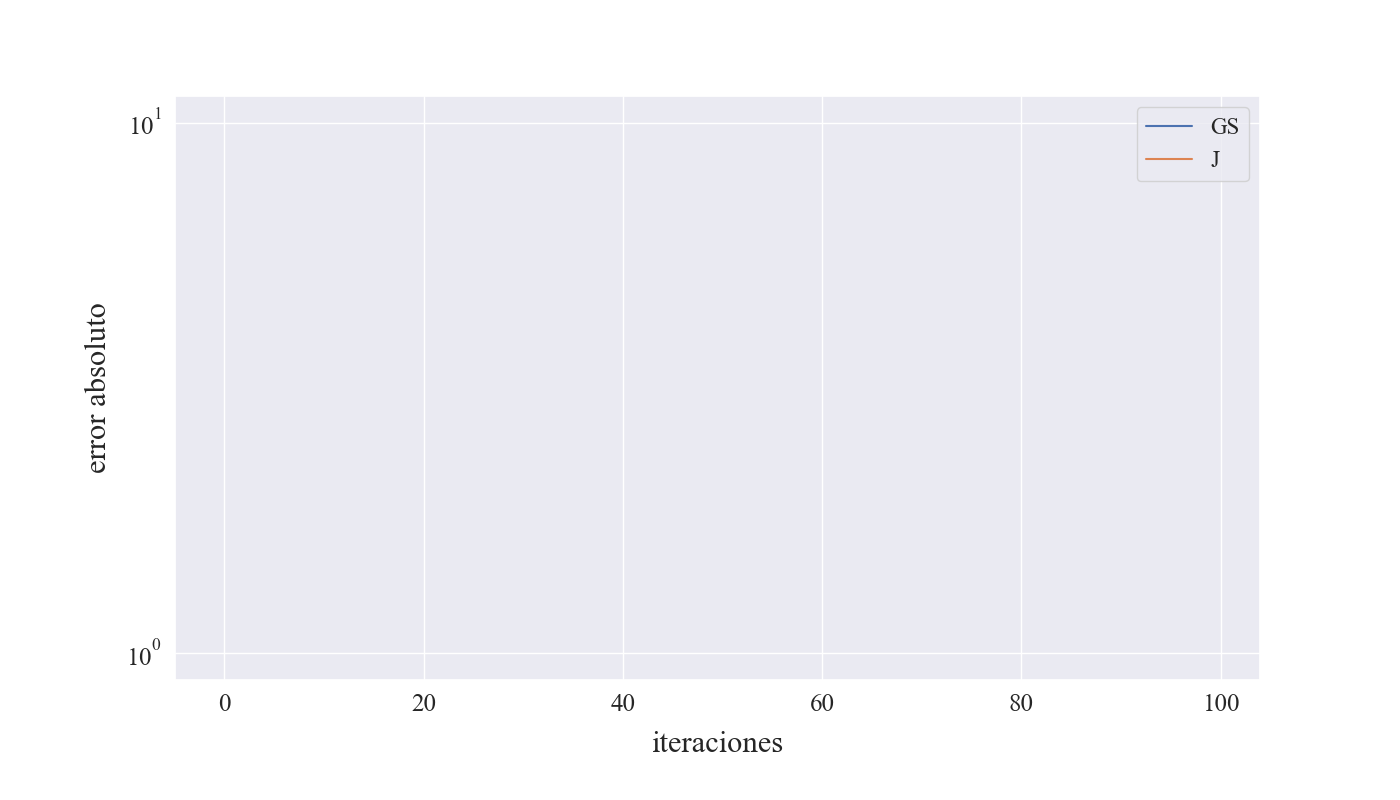
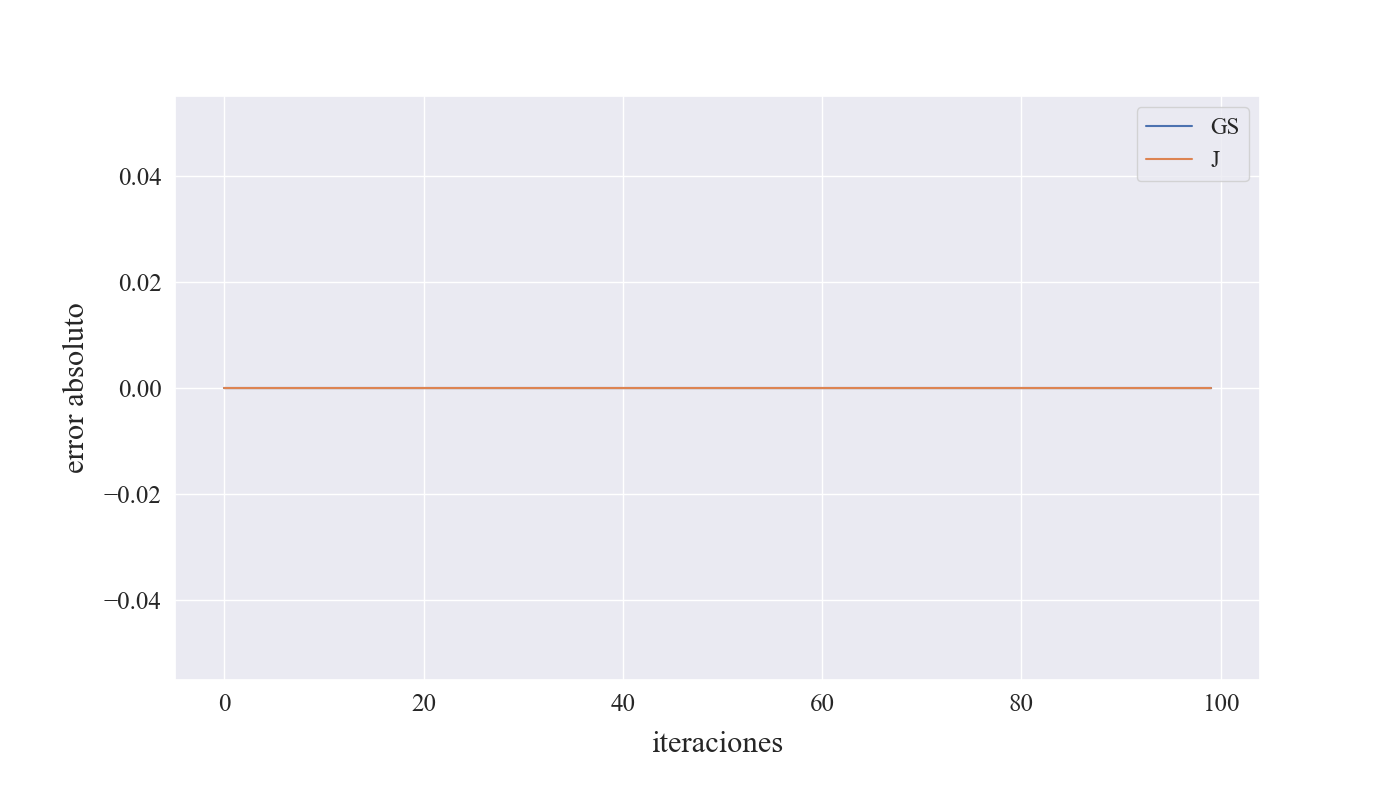
update experimento convergencia

diff --git a/experimentacion/convergencia.py b/experimentacion/convergencia.py
@@ -72,7 +72,7 @@ def medir_errores():
         for test in TESTS:
 
             in_file = TESTS_DIR + test + ".txt"
-            p, x    = IO.read_out(in_file + ".out")
+            p, xe   = IO.read_out(in_file + ".out")
 
             _, _, W = IO.read_in(in_file)
             A = utils.W_to_A(W, p)
@@ -83,7 +83,7 @@ def medir_errores():
 
                     # error absoluto
                     res_file = DIR_OUT + f"{test}_m{metodo}_i{k}" + ".out"
-                    _p, xe = IO.read_out(res_file)
+                    _p, x = IO.read_out(res_file)
 
                     assert(abs(p - _p) < 1e-4)
 
@@ -91,8 +91,8 @@ def medir_errores():
                     error_max = np.linalg.norm(x - xe, np.inf)
 
                     # error relativo
-                    Ax = A @ xe.T
-                    error_rel = np.linalg.norm(Ax - xe, 1)
+                    Ax = A @ x.T
+                    error_rel = np.linalg.norm(Ax - x, 1)
                     
                     cols = FMT_COLS.format(test, metodo, k, 
                                            error_abs, error_rel, error_max)
@@ -119,4 +119,5 @@ if __name__ == "__main__":
         x = test_data.n_iter
         y = test_data.error_abs
         hue = test_data.metodo
-        utils.graficar(x, y, hue, "iteraciones", "error absoluto", save_as, log=True)
+        log = np.any(y > 0)
+        utils.graficar(x, y, hue, "iteraciones", "error absoluto", save_as, log=log)
